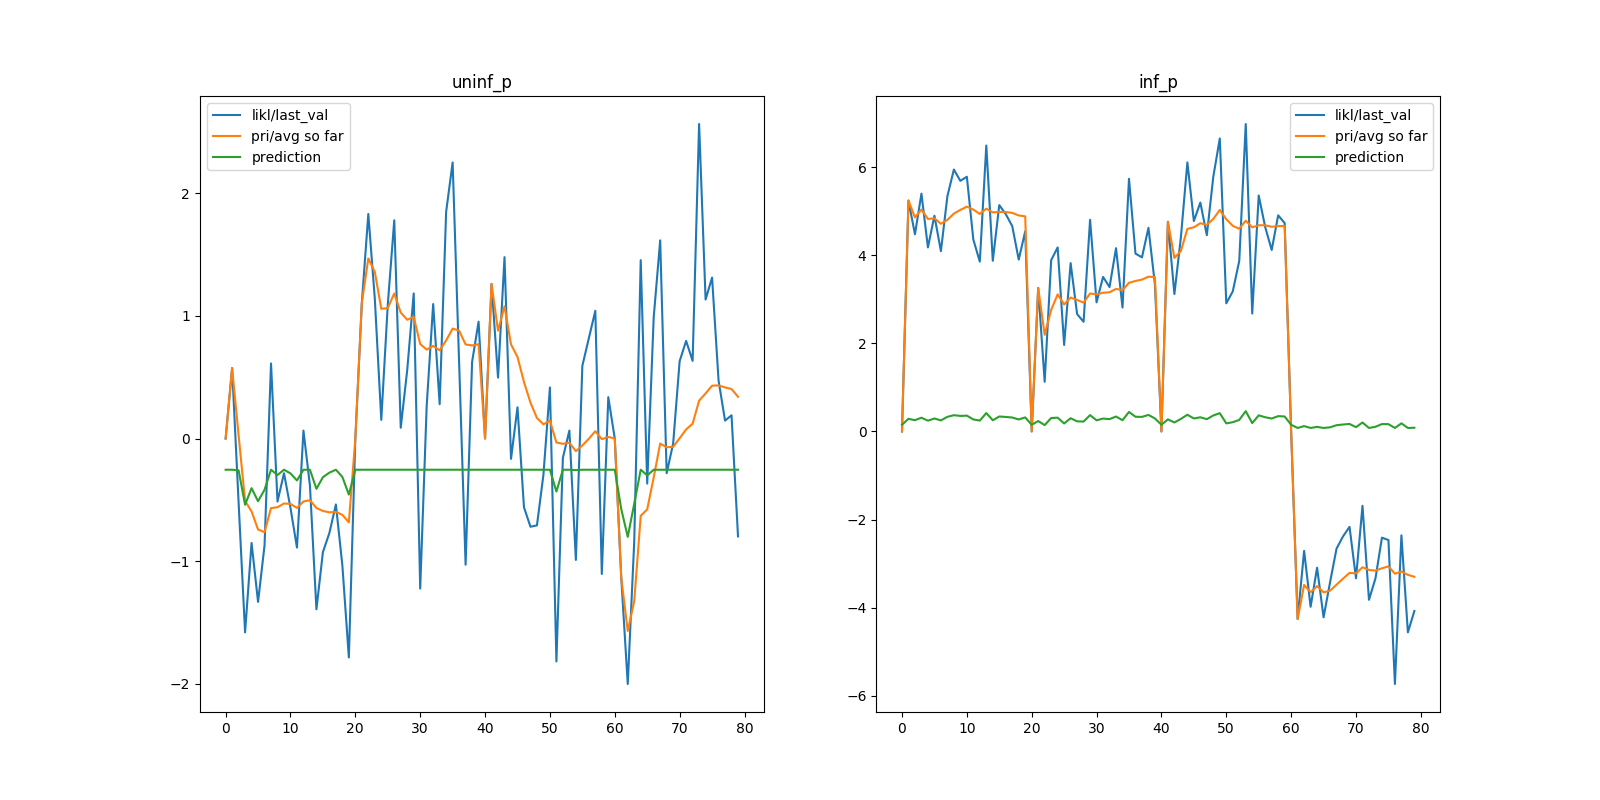
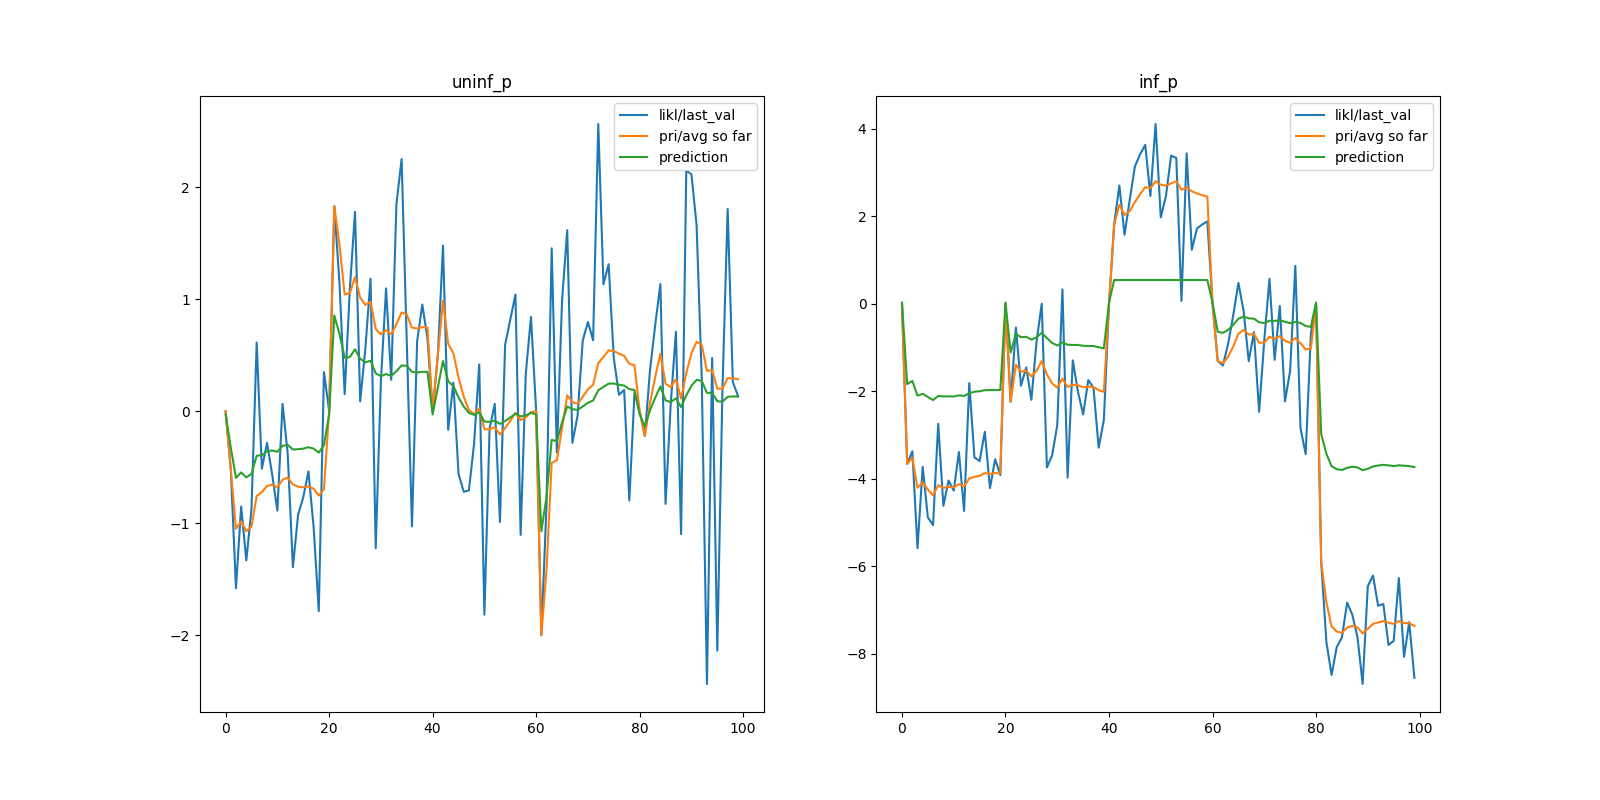
Taking samples outside leads to no gradient for well behaved ELBO

diff --git a/generative.py b/generative.py
@@ -134,6 +134,7 @@ class Button ():
         
         qmu, qsig = yval[0,0], torch.exp(yval[0,1])
         pmu, psig = target[0], torch.exp(target[1])
+        qsig = 1.0 * qsig/qsig
         
         weight = autograd.Variable(torch.Tensor([1,0]), requires_grad = False)
         
@@ -208,9 +209,8 @@ class Button ():
         likl = target[1,:].view(1,-1)
         logp = gaussian_logpdf(prior, samples) + gaussian_logpdf(likl, samples)
         
-        #ELBO = torch.mean(logq*(logp - logq/2))
+        ELBO = torch.sqrt(torch.mean(logq*(logp - logq/2)))
 
-        ELBO = torch.mean(logp - logq)
         #print("yval, ", yval.data.numpy())
         #print("prior and likle", prior.data.numpy(), likl.data.numpy())
         #print("samples", samples.data.numpy()[:3])

diff --git a/utils.py b/utils.py
@@ -26,7 +26,7 @@ def inv_logit(p):
 def logit(p):
     return np.log(p) - np.log(1 - p)
         
-def plot_both(data, model, dset, expt, fac, N_epoch):
+def plot_both(data, model, dset, expt, fac, N_epoch, show = False):
     
     count = 0
     
@@ -60,6 +60,7 @@ def plot_both(data, model, dset, expt, fac, N_epoch):
             ax.legend()
             
         plt.savefig('figs/{4}_{0}{1}_fac{2}epochs{3}.png'.format(model, dset,round(fac), N_epoch, expt))
+        if (dset == 'test' and model == 'am'): plt.show()
         
     return
         

diff --git a/main.py b/main.py
@@ -21,7 +21,7 @@ sg_epoch = 0
 N_blocks = 20
 N_trials = 20
 N_balls = 9
-testN_blocks = 4
+testN_blocks = 100
 valN_blocks = 5
 
 fac = 10.0
@@ -31,7 +31,7 @@ DIM = 1
 
 INPUT_SIZE = 4
 # for Urn nhid = 2
-# for Button nhid = 1/2
+# for Button nhid = 1 or 2
 nhid = 1
     
 expts = {"disc": {},

diff --git a/models.py b/models.py
@@ -115,7 +115,7 @@ class MLP_cont(nn.Module):
     
     def get_samples(self, x):
         vals = x.data.numpy()
-        n_samp = 100
+        n_samp = 10
         #D = len(x)
         #mu, logsig = x[:D], x[-D:]
         #std = np.exp(np.clip(vals[0,1], -20, 20))
